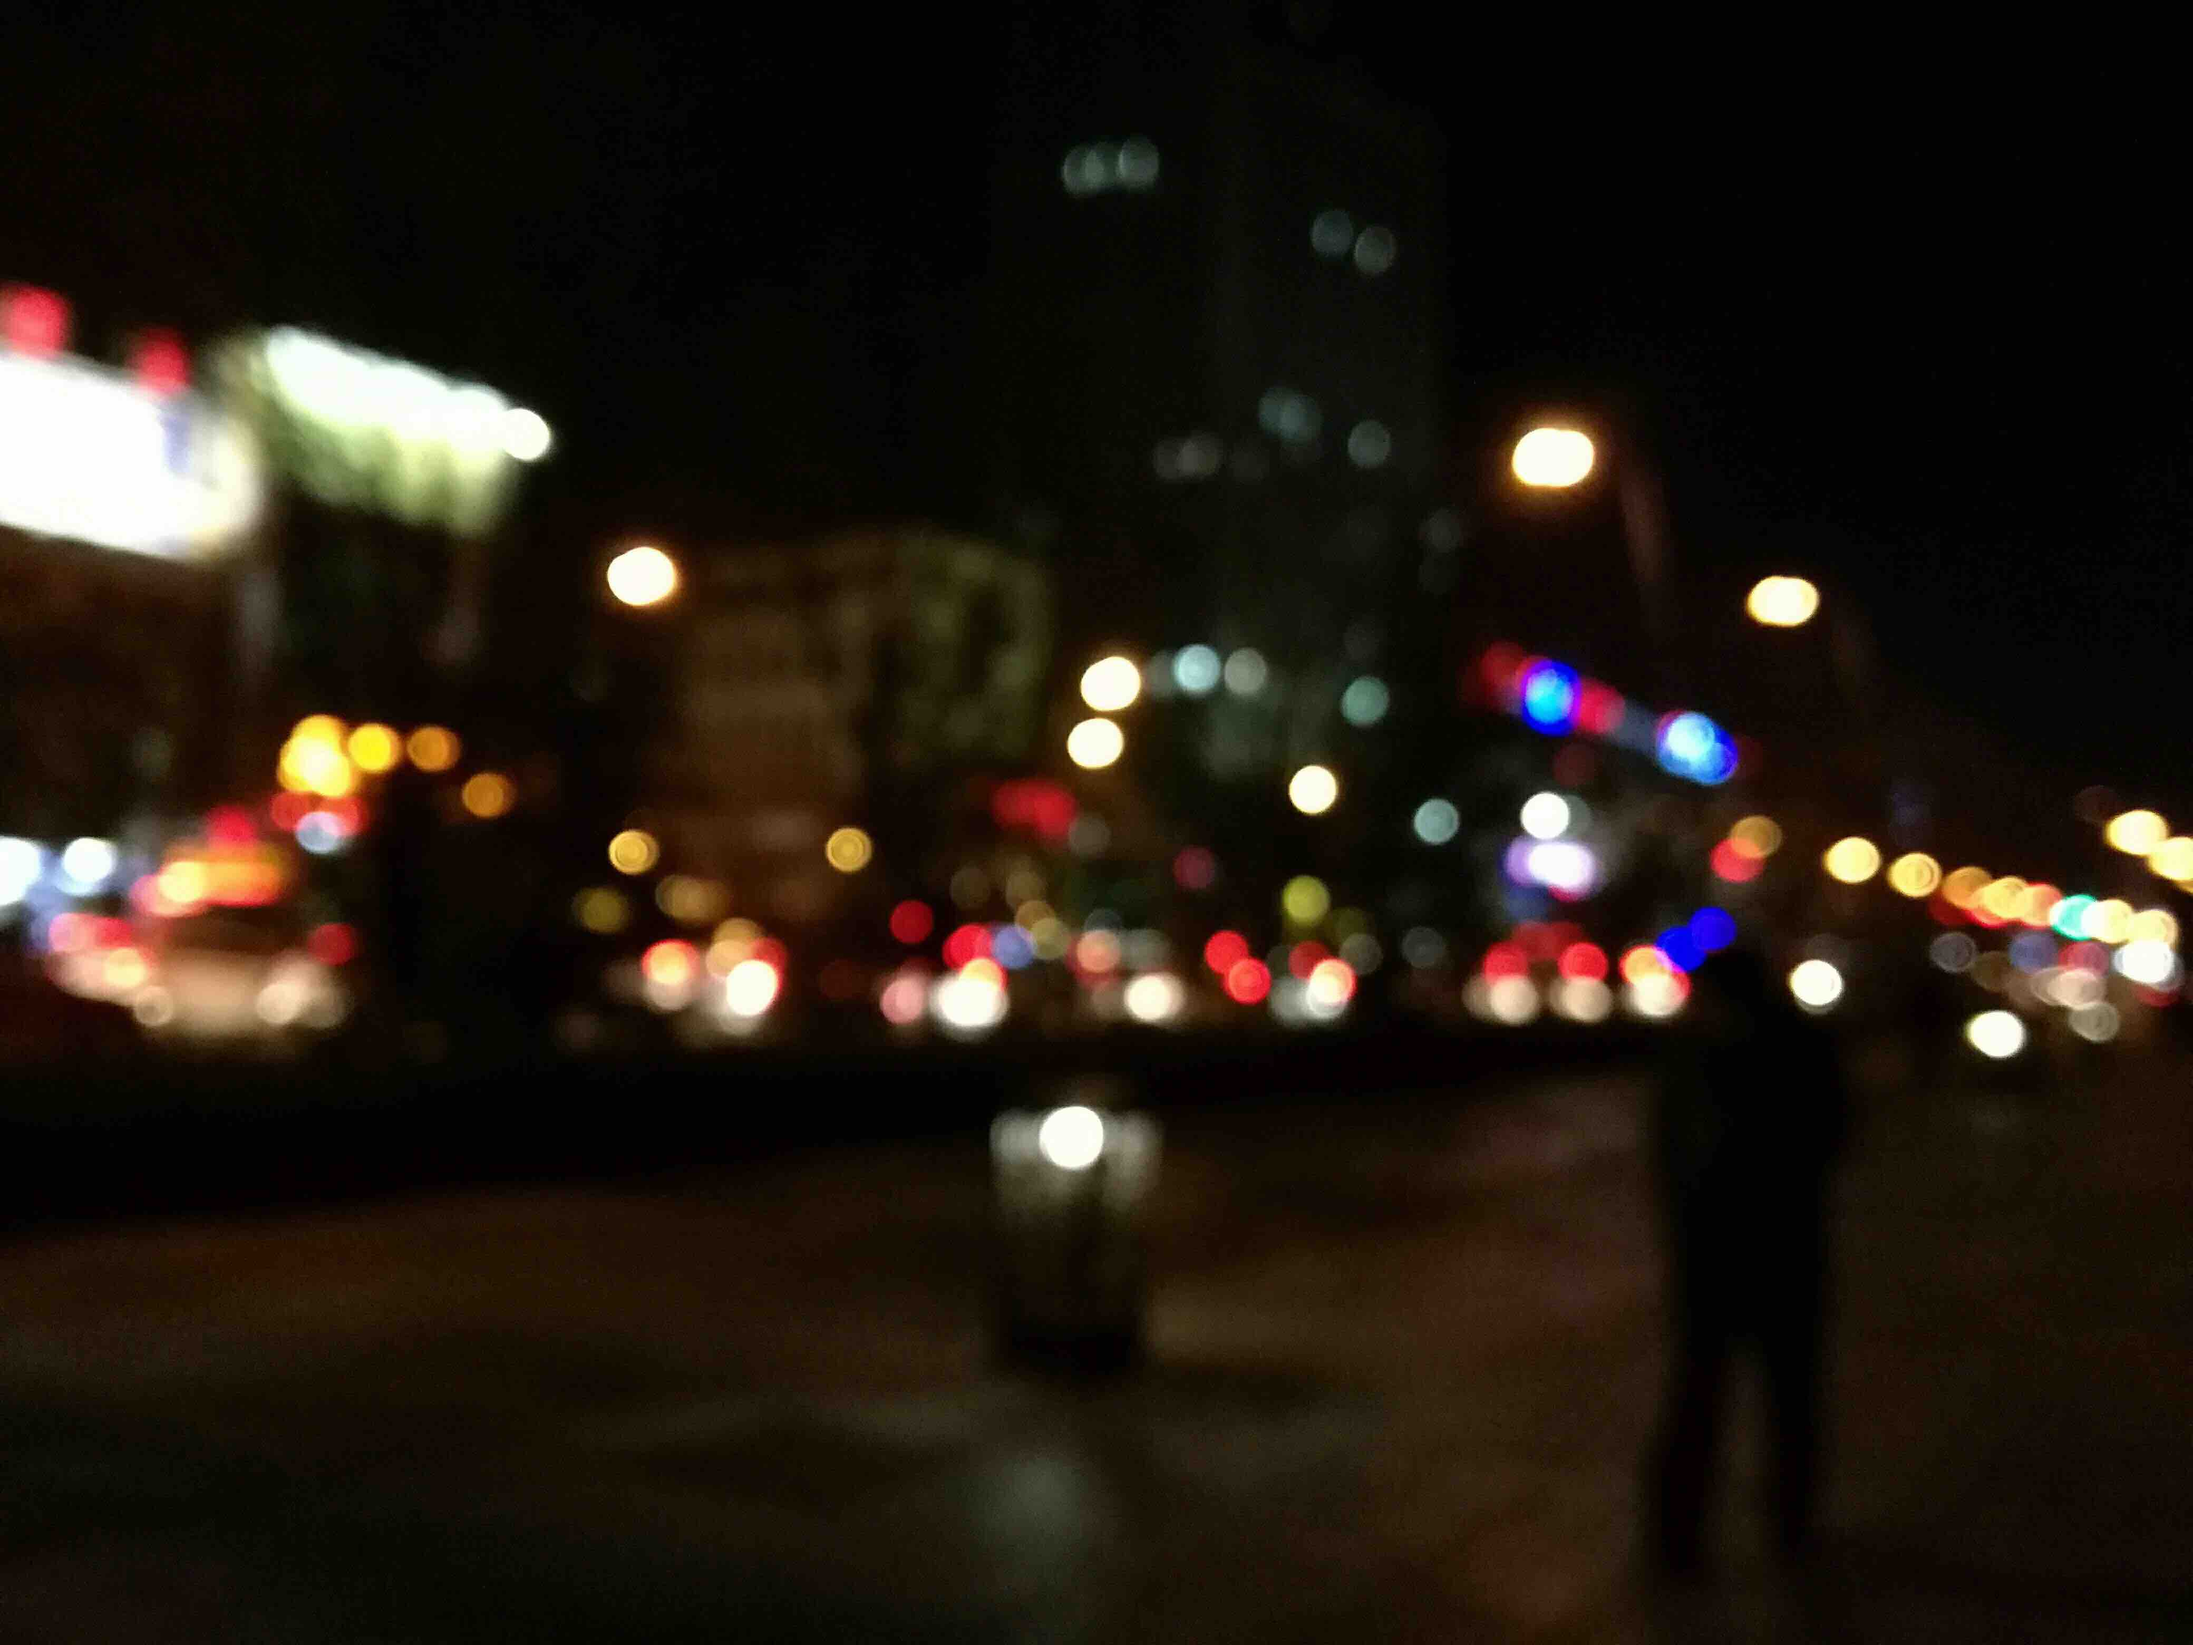
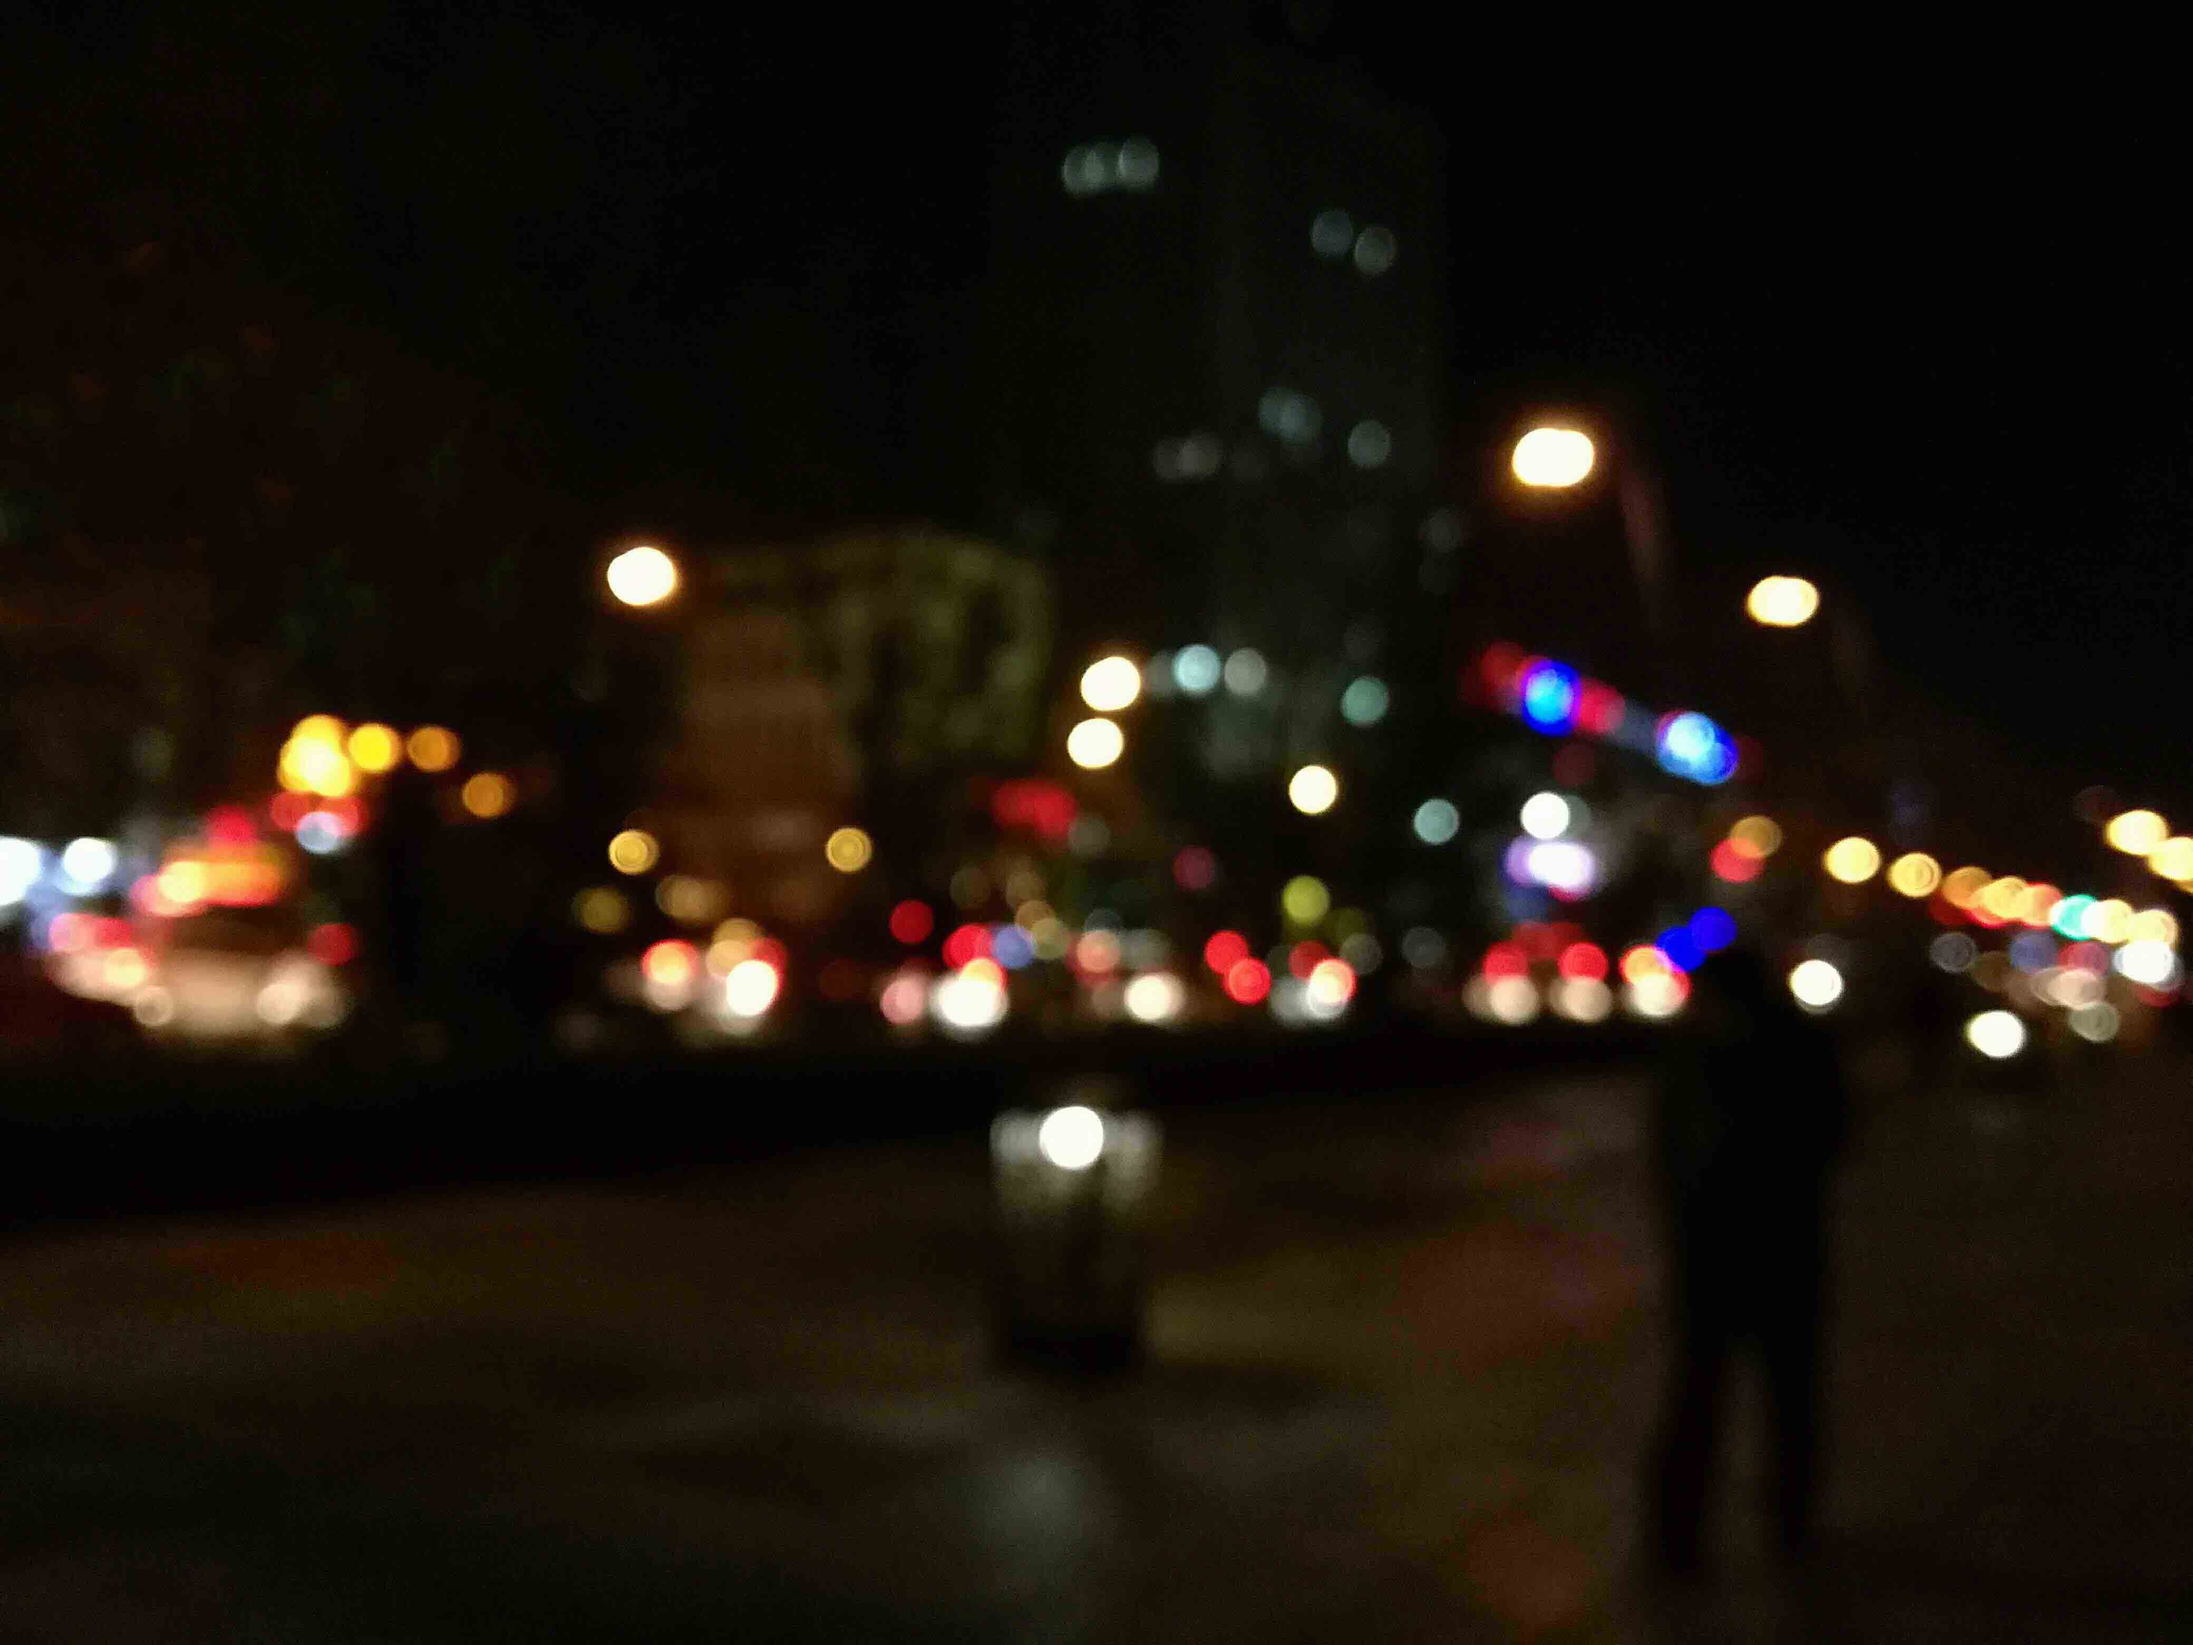
bg change

Changed region(s): [[0.0, 0.1554, 0.25, 0.4042], [0.1875, 0.3731, 0.2188, 0.4042]]

diff --git a/tags.html b/tags.html
@@ -1,8 +1,8 @@
 ---
 title: Tags
 layout: default
-description: Now I'm coding...
-header-img: "img/post-bg-debug.png"
+description: Now I'm coding for night...
+header-img: "img/bg-about.png"
 ---
 
 <!-- Page Header -->
